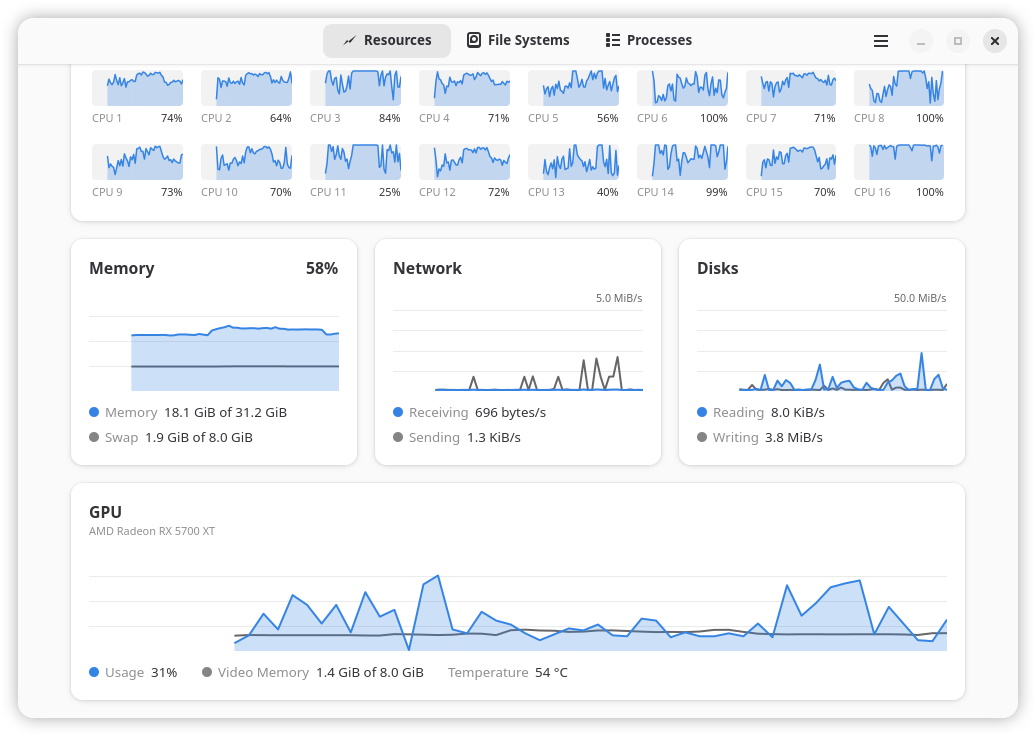
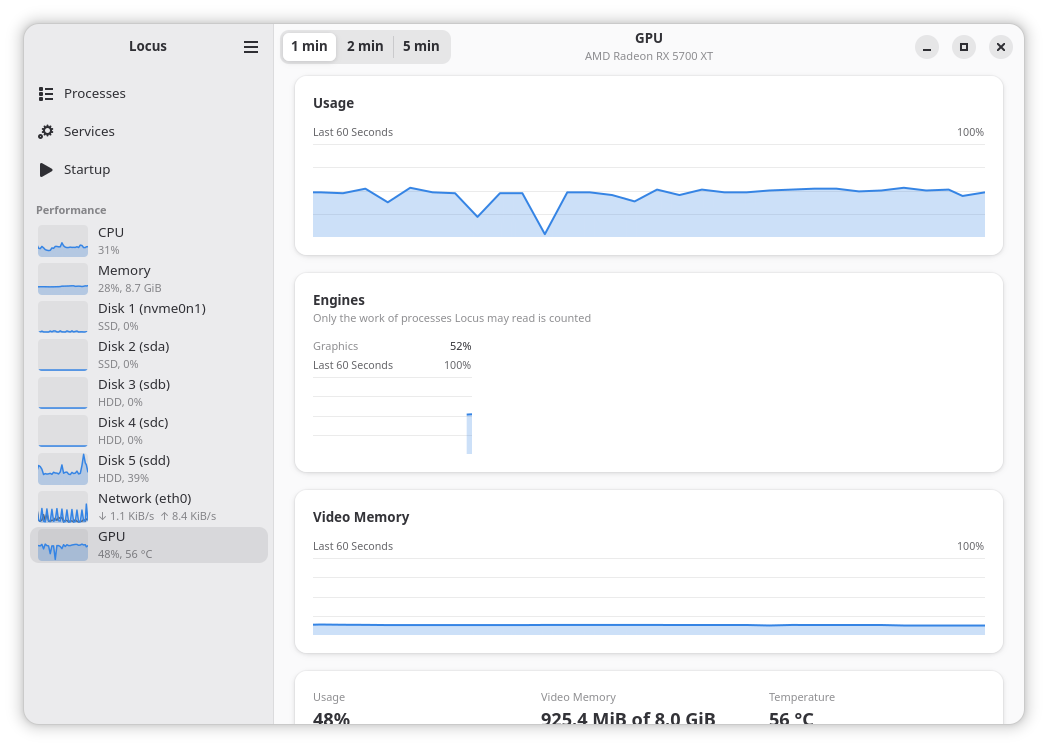
docs: describe the sidebar, its pages and the new screenshots
The image addresses in the metainfo name v0.2.0, the release these pages
are meant to ship in, as they have to point at a tag.

diff --git a/README.md b/README.md
@@ -3,30 +3,43 @@
 Locus is a system monitor for Wayland desktops, written in Rust with GTK 4 and libadwaita.
 It was made for the Meridian desktop but does not depend on it, so it runs on any other.
 
-![The Resources page, with graphs of the processor and each of its cores, memory, the network, the disks and the graphics cards](data/screenshots/resources.png)
+![The Processes page, with running apps and processes tinted by how much they use, beside a sidebar of graphs of the processor, memory, disks, network and graphics card](data/screenshots/processes.png)
 
-Resources, the page Locus opens on, graphs the processor and each of its cores, memory and
-swap, the network, the disks and each graphics card. File Systems shows how much room is
-left on each mounted disk, and switches a bar to the warning colour once its disk is 90%
-full.
+A sidebar leads to the pages. Processes, the page Locus opens on, lists the running apps
+first, each with its processes underneath, then every other process; it can also be
+arranged as a tree of everything or as a flat list. The columns show CPU, memory, disk and
+GPU use, tinted by how much each takes; the list sorts by any of them and searches by name,
+command line or PID. Processes can be ended, killed, stopped and continued, and apps ended
+or killed with all of their processes, from the buttons beneath the list, the context menu
+(right click or long press) or the keyboard. Ending and killing ask first, and the list
+stops re-sorting while a dialog or menu is open. A pane beside the list shows more about
+what is selected: its threads, open files and network connections, and its priority.
 
-Processes lists the running apps first, each with its processes underneath, then every
-other process as a tree under the process that started it. The columns show CPU, memory,
-disk and GPU use; the list sorts by any of them and searches by name, command line or PID.
-Processes can be ended, killed, stopped and continued, and apps ended or killed with all of
-their processes, from the buttons above the list, the context menu (right click or long
-press) or the keyboard. Ending and killing ask first, and the list stops re-sorting while a
-dialog or menu is open.
+Services lists those of the machine and of the user, from systemd, with what each is doing,
+whether it starts at boot and what it uses. They can be started, stopped and restarted, and
+each shows the end of its log. Changes to the machine's services go through systemd's own
+authorization.
 
-Everything is read from `/proc` and `/sys` on a worker thread. Apps are recognised by the
-systemd unit the desktop starts them in, by the desktop file GLib launched them from, or,
-for apps D-Bus activates, by their program. Processes are read only while the Processes
-page is visible, since that is most of the cost of a reading, and file systems only while
-File Systems is; the graphs keep going in the background, and while the window is hidden.
+Startup lists the apps that start with the session, with a switch for each and a way to add
+more, and breaks down how long the last boot took and which services took longest.
 
-Each page refreshes every 2 seconds by default, or every 1, 5 or 10 seconds as set for it
-in Preferences. Sizes are shown in binary units (KiB, MiB, GiB), or in decimal units (kB,
-MB, GB) when Preferences says so.
+Under Performance, the sidebar has a page and a small live graph for the processor, memory,
+each disk, each network connection and each graphics card. Their graphs reach back 1, 2 or
+5 minutes, and each page adds what it can say about its device: the processor's speed and
+load, how memory is divided, a disk's file systems and how full they are, a connection's
+addresses, a graphics card's engines, and the processes using the most of it.
+
+Everything but services is read from `/proc` and `/sys` on a worker thread. Apps are
+recognised by the systemd unit the desktop starts them in, by the desktop file GLib launched
+them from, or, for apps D-Bus activates, by their program. Processes are read only while a
+page that shows them is visible, since that is most of the cost of a reading, and details of
+a device only while its page is; the sidebar's graphs keep going in the background, and
+while the window is hidden. Services are read at most every 5 seconds, and only while their
+page is visible.
+
+Processes refresh every 2 seconds by default, and so do the other pages, or every 1, 5 or 10
+seconds as set for each in Preferences. Sizes are shown in binary units (KiB, MiB, GiB), or
+in decimal units (kB, MB, GB) when Preferences says so.
 
 GPU usage, video memory and temperature are whatever the driver exposes under `/sys`:
 amdgpu provides all three, most other drivers less, some nothing. A GPU that has powered

diff --git a/CONTRIBUTING.md b/CONTRIBUTING.md
@@ -16,24 +16,41 @@ Before a change goes in:
 ## Where things are
 
     build.rs                   runs blueprint-compiler and bundles the GResource
-    data/ui/*.blp              the window, the three pages, and the preferences and shortcuts
-                               dialogs
+    data/ui/*.blp              the window, its pages, the details pane, and the preferences and
+                               shortcuts dialogs
     data/style.css             structural CSS, colours come from libadwaita
     src/main.rs                the application: its actions, the About dialog, one window
-    src/window.rs              the window, its win.* actions and settings, and the loop that
-                               takes a reading, hands it to the pages and waits for the next
+    src/window.rs              the window, its sidebar, win.* actions and settings, and the loop
+                               that takes a reading, hands it to the pages and waits for the next
     src/sampler.rs             a reading of the machine and its processes, and the apps they are
                                part of, on a worker thread, with the counters of the last one
                                to measure rates against
     src/procfs.rs              parsers of the /proc files, pure functions over their text
     src/gpu.rs                 the graphics cards under /sys/class/drm, and their names
+    src/systemd.rs             systemd over D-Bus: services, changing them, boot times, the log
+    src/autostart.rs           the XDG autostart folders, and writing to the user's
     src/process.rs             LocusProcess, one process in the list model, and signalling it
+    src/process_details.rs     what the details pane reads of one process
+    src/service.rs             LocusService, one service in the list model
     src/processes_page.rs      the process list: the trees of apps and processes, columns,
                                sorting, search, the process.* actions and their confirmations
-    src/resources_page.rs      the processor, memory, network, disk and graphics card cards
-    src/filesystems_page.rs    the mounted file systems and the room left on each
-    src/preferences_dialog.rs  the update interval of each page, and the units of sizes
-    src/graph.rs               LocusGraph, a line graph drawn with GtkSnapshot
+    src/details_pane.rs        the pane beside the process list
+    src/services_page.rs       the list of services, their pane and service.* actions
+    src/startup_page.rs        the autostart apps, the last boot and the slowest services
+    src/cpu_page.rs            the processor
+    src/memory_page.rs         memory and swap
+    src/disk_page.rs           one disk, and its file systems
+    src/network_page.rs        one network connection
+    src/gpu_page.rs            one graphics card and its engines
+    src/preferences_dialog.rs  the update intervals, and the units of sizes
+    src/sidebar_row.rs         a row of the sidebar, with a small graph for a device
+    src/range_switch.rs        how far back the graphs reach, in the header of a device page
+    src/graph.rs               LocusGraph, a line graph drawn with GtkSnapshot, and its history
+    src/heat_cell.rs           a list cell tinted by how much a process uses
+    src/segment_bar.rs         a whole split into parts in one bar
+    src/stat.rs                a named value in a grid of them
+    src/top_list.rs            the processes using the most of something
+    src/file_system_list.rs    the room left on each file system of a disk
     src/format.rs              percentages, sizes and rates as the interface writes them
     src/bench.rs               the processor time and allocations of a reading, for
                                `just bench`
